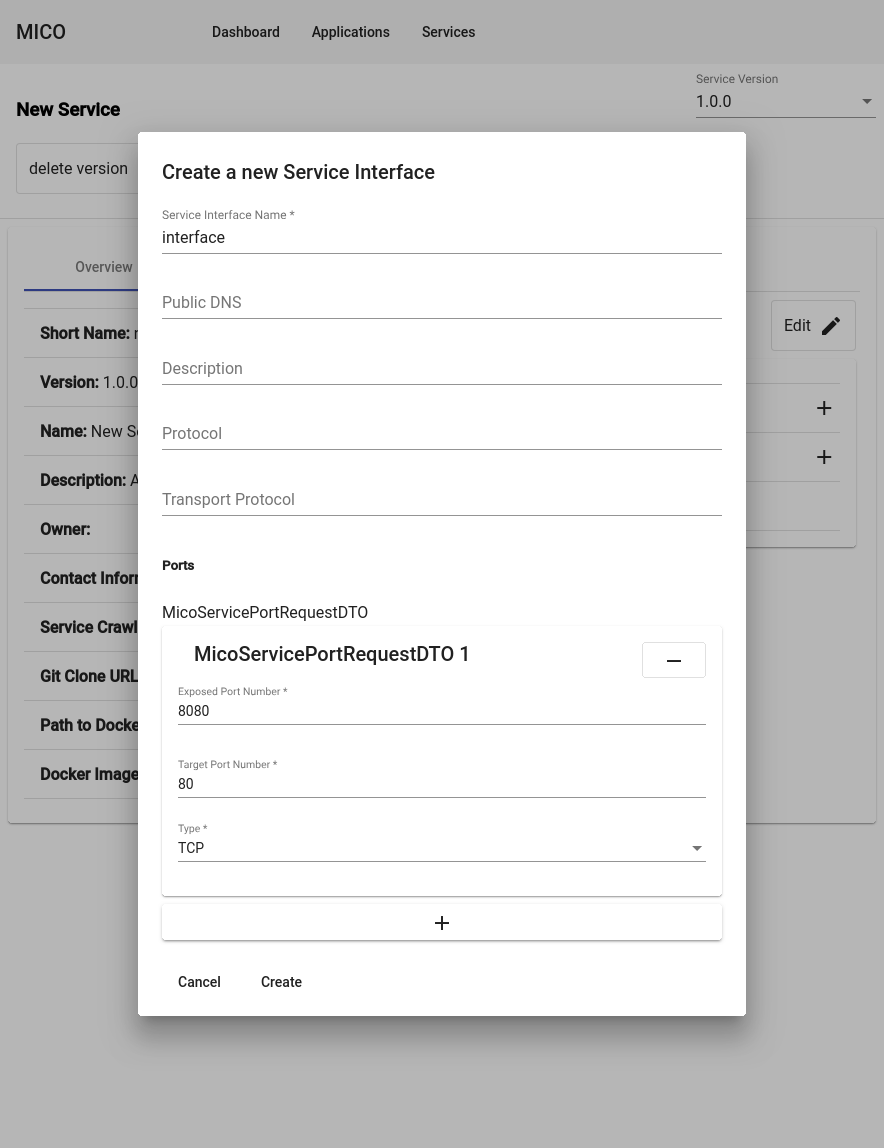
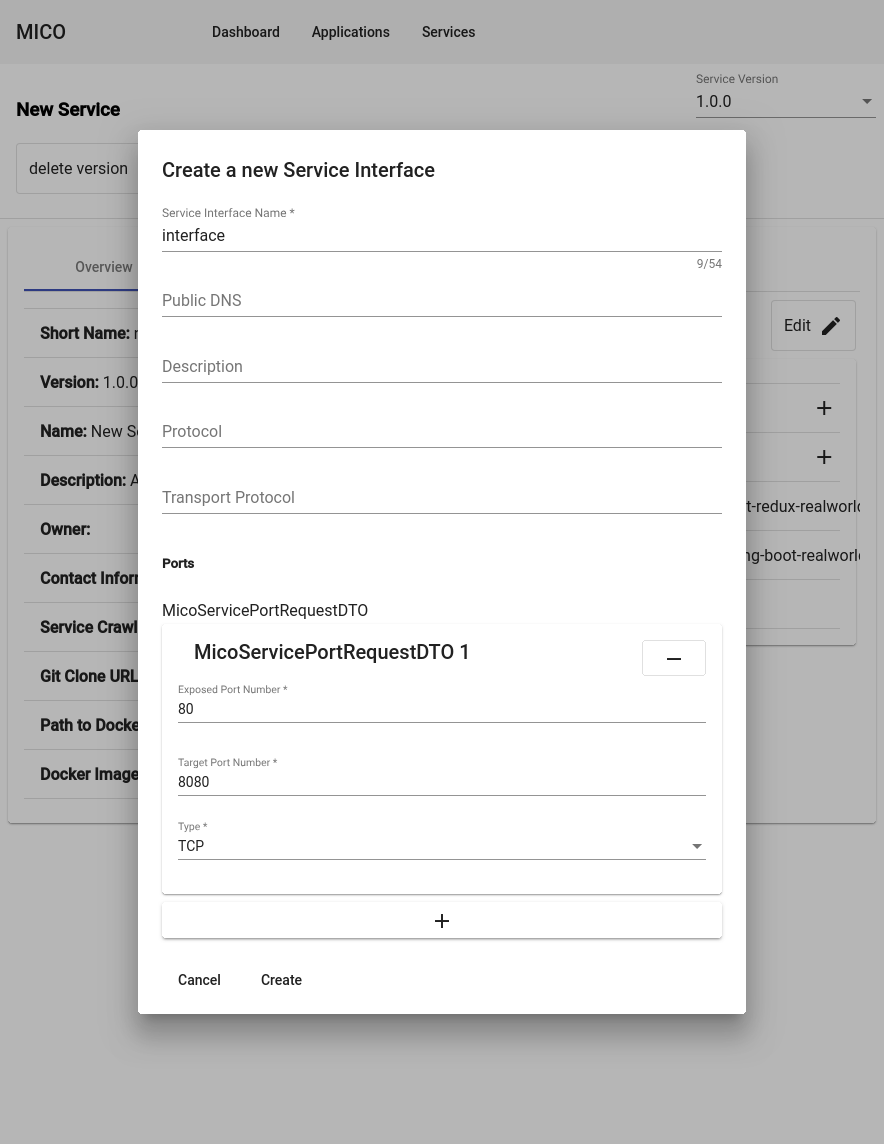
Fix service interface port descriptions

diff --git a/tutorials/02-manage-service.rst b/tutorials/02-manage-service.rst
@@ -22,9 +22,9 @@ To add a new service interface click on the :guilabel:`Provides` button in the :
 
 .. note::
 
-    :samp:`Exposed Port Number` is the port exposed by the docker container.
+    :samp:`Exposed Port Number` is the port that will be exposed in kubernetes.
 
-    :samp:`Target Port Number` is the port that will be exposed in kubernetes.
+    :samp:`Target Port Number` is the port exposed by the docker container.
 
 After adding a interface to a service the detail page should look something like this:
 
